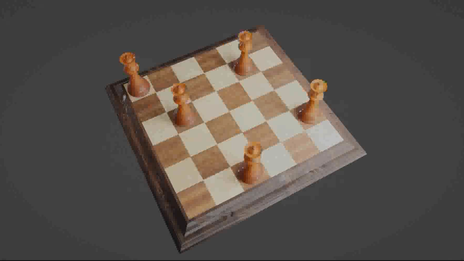
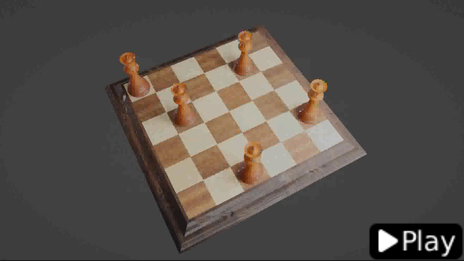
thumbnail_videos

Changed region(s): [[0.7845, 0.8276, 1.0, 1.0]]

diff --git a/links.html b/links.html
@@ -108,17 +108,16 @@
 				</div>
 				<br>
 
-				<div class="container">
-
-					<iframe class="screenshot modal_img" src="https://www.youtube.com/embed/wEgltkiKXNc?si=U0rII0purW3qTiLA"
-						title="YouTube video player" frameborder="0"
-						allow="accelerometer; autoplay; clipboard-write; encrypted-media; gyroscope; picture-in-picture; web-share"
-						referrerpolicy="strict-origin-when-cross-origin" allowfullscreen></iframe>
+				<div id="" class="container">
+					<img class="screenshot youtube-thumbnail" src="/images/screenshots/vi_graph.png"
+						data-video-id="wEgltkiKXNc" alt="Open Video">
 					<div class="content">
-						<h3>Vi Graph</h3>
+						<h3>
+							Vi Graph
+						</h3>
 						<p>
 							Graph editor with vim keybindings.
-							Helps me prepare mindmaps and create graphs, all while pretending I’m using Vim for
+							Helps me prepare mindmaps and create graphs, all while pretending I'm using Vim for
 							everything.</p>
 						<!-- Added line -->
 						<a target="_blank" href="https://www.joeleldo.com/apps/vi-graph/">
@@ -128,6 +127,7 @@
 				</div>
 
 				<br>
+
 				<div class="container">
 					<img src="/images/screenshots/labelimg.png" alt="Screenshot" class="screenshot modal_img"
 						width="300">
@@ -228,6 +228,23 @@
 	<span id="closeModal" class="close">&times;</span>
 	<img id="modalImage" src="" alt="Screenshot">
 </div>
+
+<!-- YouTube video modal -->
+<!-- <div id="youtubeModal" class="modal">
+		<span id="closeYoutubeModal" class="close">&times;</span>
+		<iframe id="youtubeIframe" src="" frameborder="0"
+			allow="accelerometer; autoplay; clipboard-write; encrypted-media; gyroscope; picture-in-picture"
+			allowfullscreen></iframe>
+</div> -->
+<div id="youtubeModal" class="youtube-modal">
+	<span id="closeYoutubeModal" class="close">&times;</span>
+	<div class="video-area">
+		<iframe id="youtubeIframe" src="" frameborder="0"
+			allow="accelerometer; autoplay; clipboard-write; encrypted-media; gyroscope; picture-in-picture"
+			allowfullscreen></iframe>
+	</div>
+</div>
+
 <script src="/scripts/script.js"></script>
 </body>
 

diff --git a/_links.html b/_links.html
@@ -34,17 +34,16 @@
 				</div>
 				<br>
 
-				<div class="container">
-
-					<iframe class="screenshot modal_img" src="https://www.youtube.com/embed/wEgltkiKXNc?si=U0rII0purW3qTiLA"
-						title="YouTube video player" frameborder="0"
-						allow="accelerometer; autoplay; clipboard-write; encrypted-media; gyroscope; picture-in-picture; web-share"
-						referrerpolicy="strict-origin-when-cross-origin" allowfullscreen></iframe>
+				<div id="" class="container">
+					<img class="screenshot youtube-thumbnail" src="/images/screenshots/vi_graph.png"
+						data-video-id="wEgltkiKXNc" alt="Open Video">
 					<div class="content">
-						<h3>Vi Graph</h3>
+						<h3>
+							Vi Graph
+						</h3>
 						<p>
 							Graph editor with vim keybindings.
-							Helps me prepare mindmaps and create graphs, all while pretending I’m using Vim for
+							Helps me prepare mindmaps and create graphs, all while pretending I'm using Vim for
 							everything.</p>
 						<!-- Added line -->
 						<a target="_blank" href="https://www.joeleldo.com/apps/vi-graph/">
@@ -54,6 +53,7 @@
 				</div>
 
 				<br>
+
 				<div class="container">
 					<img src="/images/screenshots/labelimg.png" alt="Screenshot" class="screenshot modal_img"
 						width="300">

diff --git a/_downloads.html b/_downloads.html
@@ -208,7 +208,7 @@
 				<br>
 
 				<div id="" class="container">
-					  <img class="screenshot youtube-thumbnail" src="https://img.youtube.com/vi/lPtEKtsX4CI/hqdefault.jpg"
+					  <img class="screenshot youtube-thumbnail" src="/images/screenshots/nqueens.png"
        data-video-id="lPtEKtsX4CI" alt="Open Video">
 					<div class="content">
 						<h3>
@@ -226,7 +226,7 @@
 					</div>
 				</div>
 				<div id="" class="container">
-					<img class="screenshot youtube-thumbnail" src="https://img.youtube.com/vi/YXJzaIKDfWU/hqdefault.jpg"
+					<img class="screenshot youtube-thumbnail" src="/images/screenshots/ducking-snapshot.png"
 					data-video-id="YXJzaIKDfWU" alt="Open Video">
 					<div class="content">
 						<h3>

diff --git a/downloads.html b/downloads.html
@@ -442,7 +442,7 @@
 				<br>
 
 				<div id="" class="container">
-					  <img class="screenshot youtube-thumbnail" src="https://img.youtube.com/vi/lPtEKtsX4CI/hqdefault.jpg"
+					  <img class="screenshot youtube-thumbnail" src="/images/screenshots/nqueens.png"
        data-video-id="lPtEKtsX4CI" alt="Open Video">
 					<div class="content">
 						<h3>
@@ -460,7 +460,7 @@
 					</div>
 				</div>
 				<div id="" class="container">
-					<img class="screenshot youtube-thumbnail" src="https://img.youtube.com/vi/YXJzaIKDfWU/hqdefault.jpg"
+					<img class="screenshot youtube-thumbnail" src="/images/screenshots/ducking-snapshot.png"
 					data-video-id="YXJzaIKDfWU" alt="Open Video">
 					<div class="content">
 						<h3>
